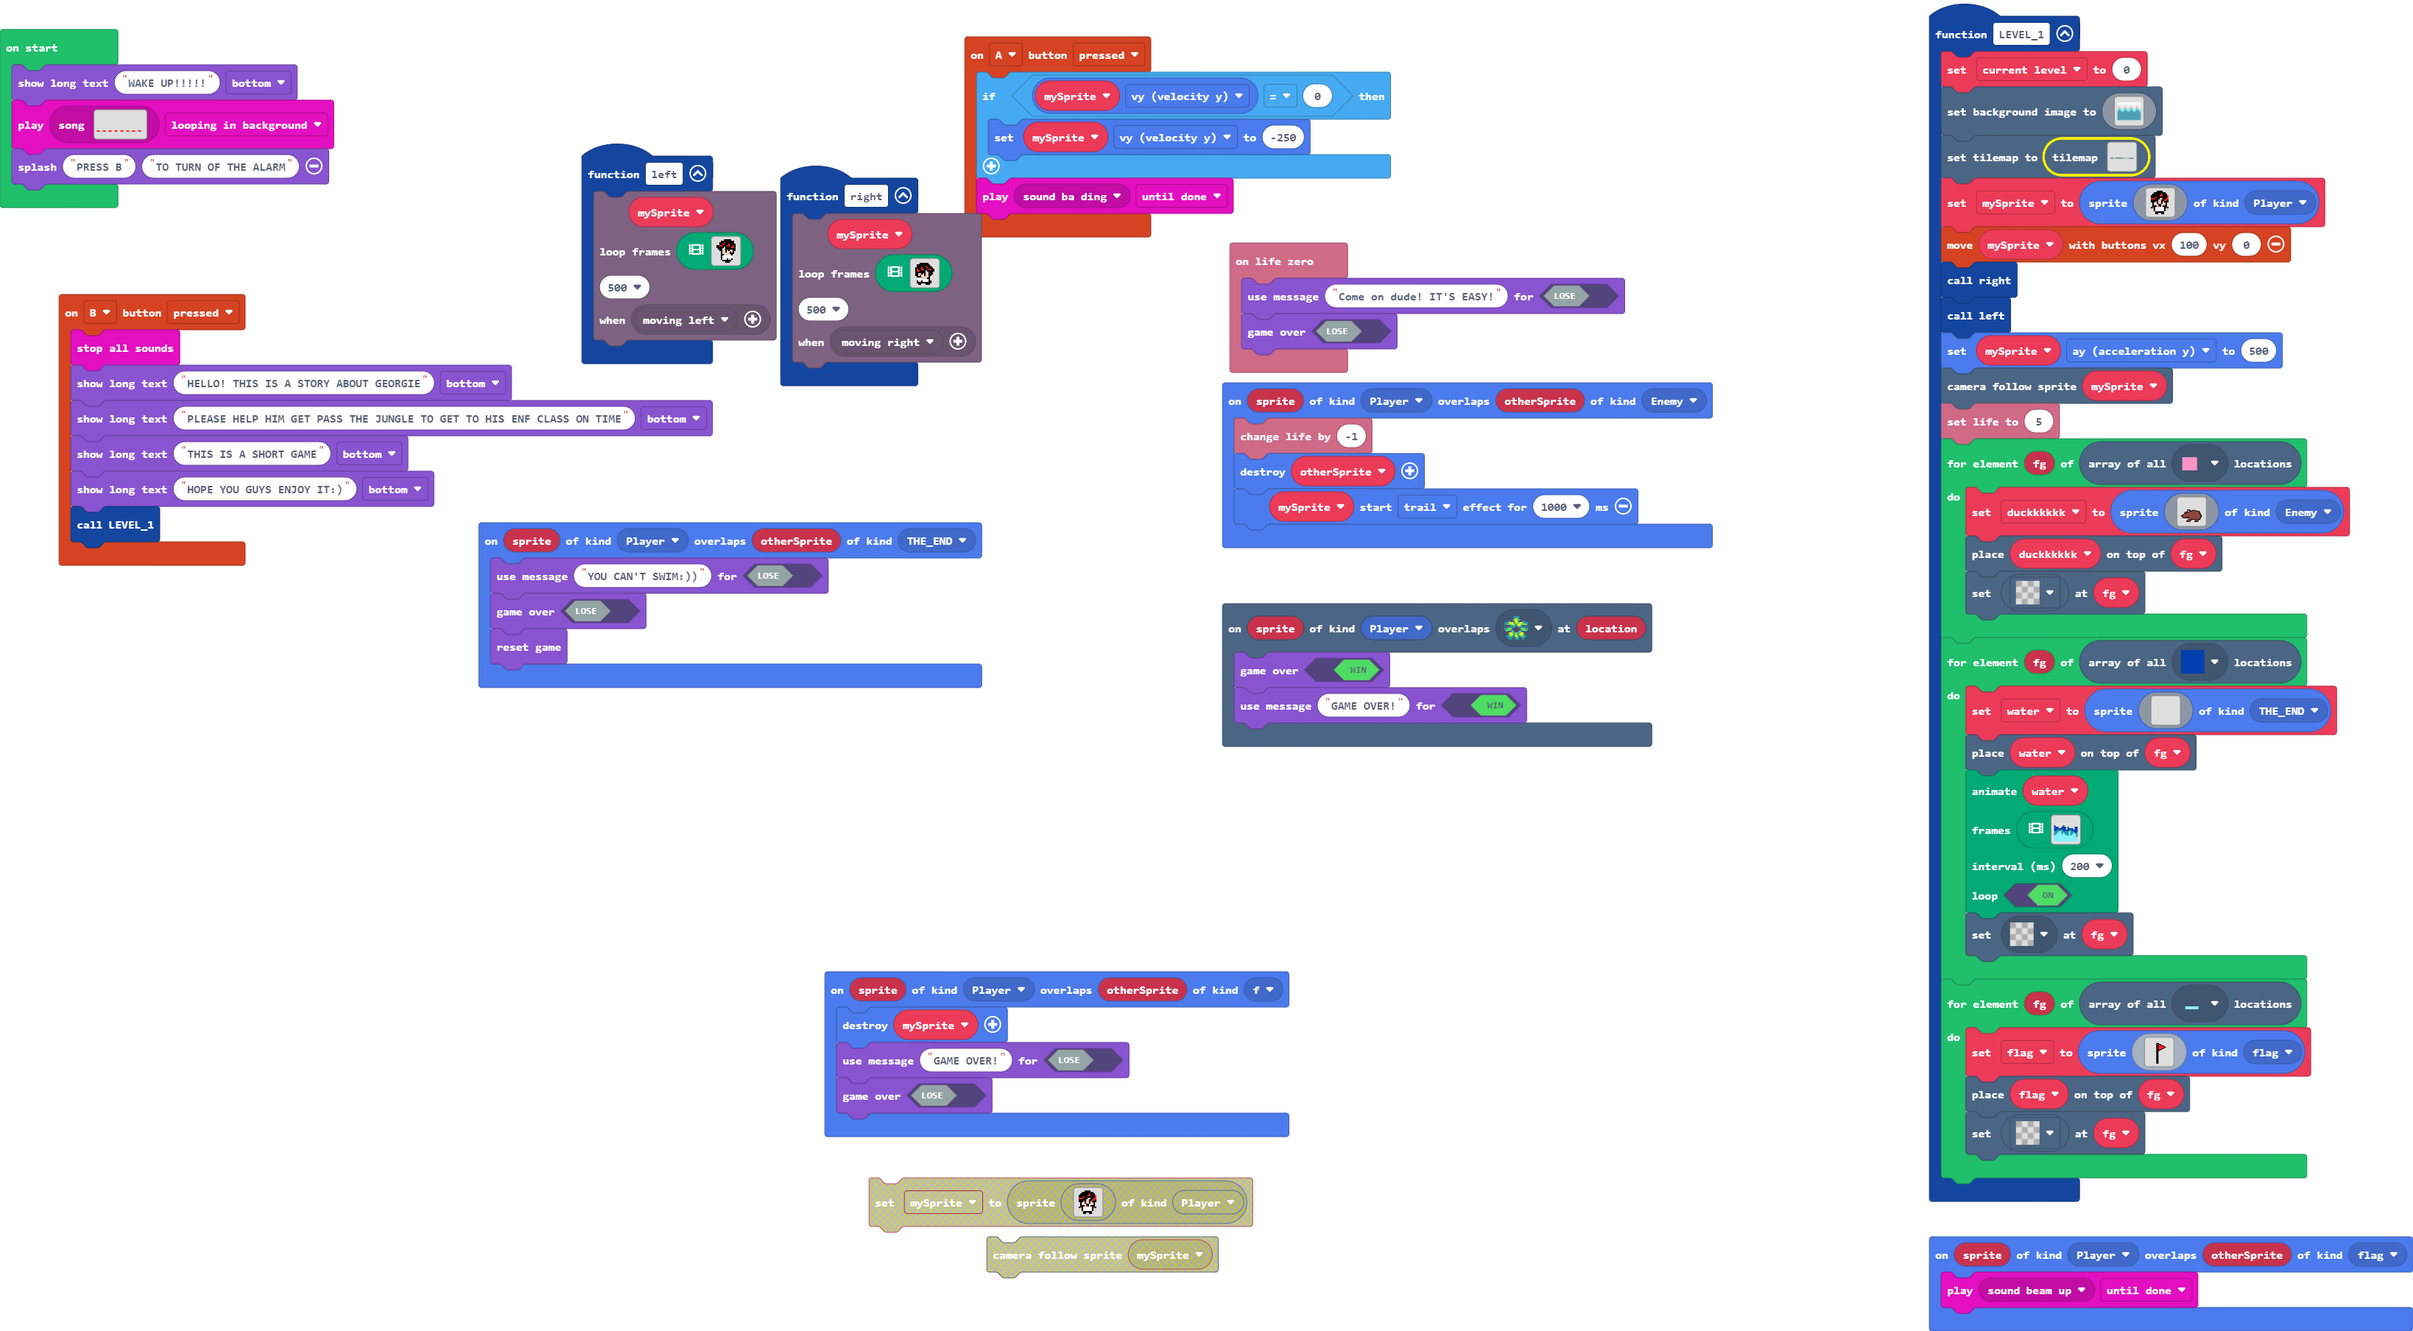
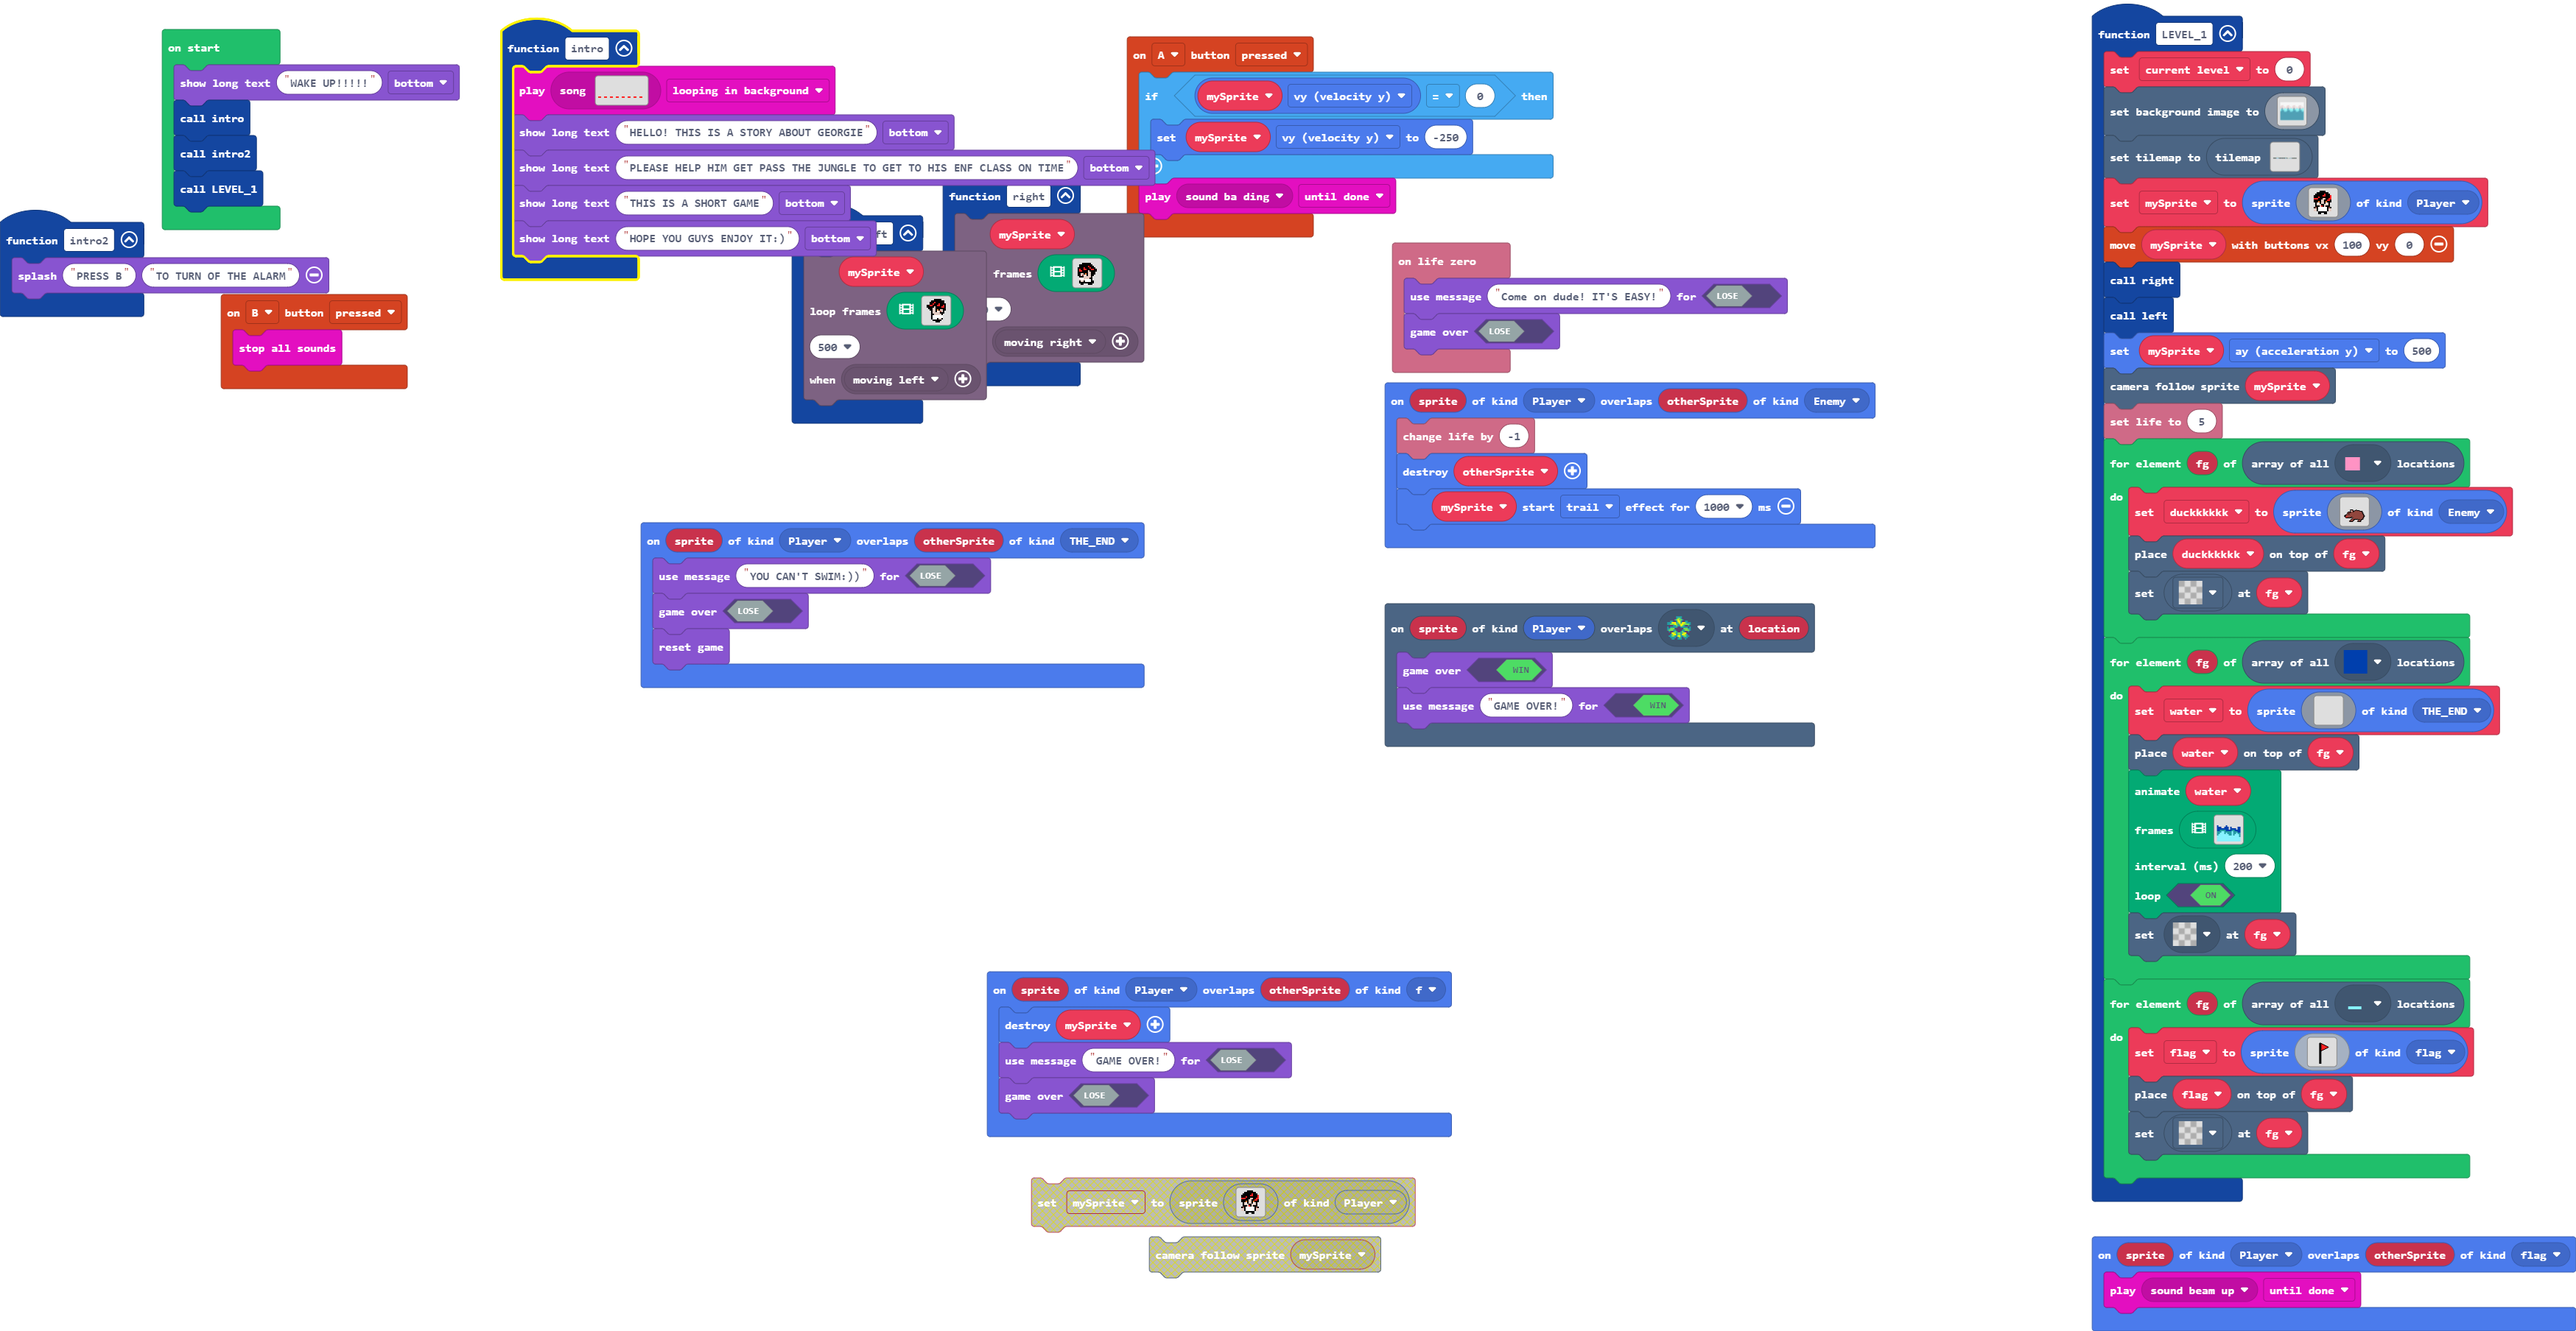
Update main.blocks, main.ts, tilemap.g.jres, tilemap.g.ts

diff --git a/main.ts b/main.ts
@@ -69,11 +69,6 @@ sprites.onOverlap(SpriteKind.Player, SpriteKind.f, function (sprite, otherSprite
 })
 controller.B.onEvent(ControllerButtonEvent.Pressed, function () {
     music.stopAllSounds()
-    game.showLongText("HELLO! THIS IS A STORY ABOUT GEORGIE", DialogLayout.Bottom)
-    game.showLongText("PLEASE HELP HIM GET PASS THE JUNGLE TO GET TO HIS ENF CLASS ON TIME", DialogLayout.Bottom)
-    game.showLongText("THIS IS A SHORT GAME", DialogLayout.Bottom)
-    game.showLongText("HOPE YOU GUYS ENJOY IT:)", DialogLayout.Bottom)
-    LEVEL_1()
 })
 function LEVEL_1 () {
     current_level = 0
@@ -462,6 +457,13 @@ function left () {
     characterAnimations.rule(Predicate.MovingLeft)
     )
 }
+function intro () {
[1 lines of base64/hex data omitted]
+    game.showLongText("HELLO! THIS IS A STORY ABOUT GEORGIE", DialogLayout.Bottom)
+    game.showLongText("PLEASE HELP HIM GET PASS THE JUNGLE TO GET TO HIS ENF CLASS ON TIME", DialogLayout.Bottom)
+    game.showLongText("THIS IS A SHORT GAME", DialogLayout.Bottom)
+    game.showLongText("HOPE YOU GUYS ENJOY IT:)", DialogLayout.Bottom)
+}
 scene.onOverlapTile(SpriteKind.Player, sprites.castle.shrub, function (sprite, location) {
     game.gameOver(true)
     game.setGameOverMessage(true, "GAME OVER!")
@@ -475,6 +477,9 @@ info.onLifeZero(function () {
     game.setGameOverMessage(false, "Come on dude! IT'S EASY!")
     game.gameOver(false)
 })
+function intro2 () {
+    game.splash("PRESS B", "TO TURN OF THE ALARM")
+}
 sprites.onOverlap(SpriteKind.Player, SpriteKind.flag, function (sprite, otherSprite) {
     music.play(music.melodyPlayable(music.beamUp), music.PlaybackMode.UntilDone)
 })
@@ -489,5 +494,6 @@ let duckkkkkk: Sprite = null
 let current_level = 0
 let mySprite: Sprite = null
 game.showLongText("WAKE UP!!!!!", DialogLayout.Bottom)
[1 lines of base64/hex data omitted]
-game.splash("PRESS B", "TO TURN OF THE ALARM")
+intro()
+intro2()
+LEVEL_1()

diff --git a/tilemap.g.ts b/tilemap.g.ts
@@ -1111,7 +1111,7 @@ namespace myTiles {
 ............................22222.......................................................................................................................................................................
 ..............................................2.........................................................2222222.........................................................................................
 ........................................................................................................................................................................................................
-22222222222222222222222222......................2222..222222222222222...22222222222222..22222222222222...........222222...............................222222............................................
+22222222222222222222222222......................2222..222222222222222...22222222222222..22222222222222...........222222...............................222222.......................22222................
 .........................2......................2..2..2.............2...2............2..2............2...........2.....2........................22222.........222222222222222222222222222222222222222222
 .........................2......................2..2..2.............2...22...........2..2............2...........2......2................22222................2........................................2
 .........................222222222222222222222222..2222.............222222...........2222............2222222222222.......2....................................2........................................2
